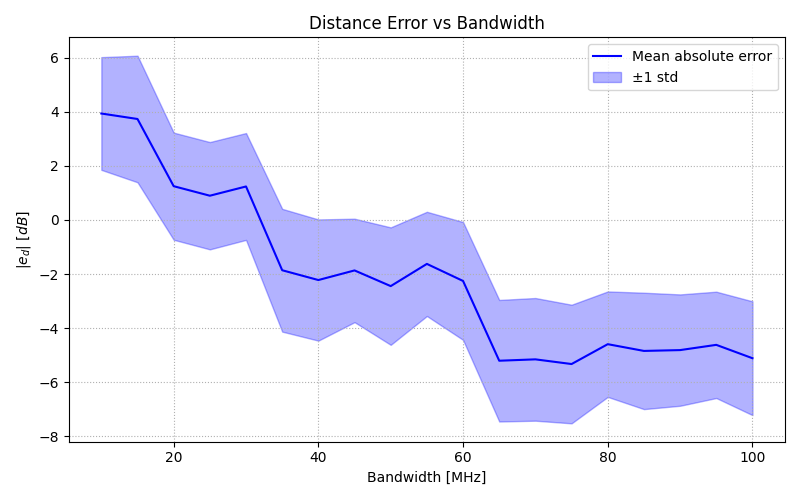
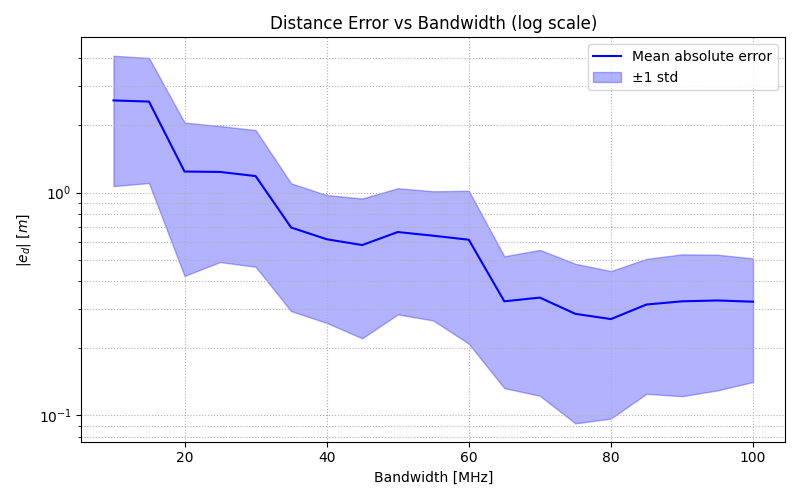
final adjustments

diff --git a/sym_evaluation.py b/sym_evaluation.py
@@ -98,7 +98,7 @@ for j, M in enumerate(Mset):
 
         echos += env.apply_target_echo(target, tx_signal, CP_LEN, FS, FC)
 
-        rx_signal = env.apply_awgn_nf(echos, TEMP, NF_DB, N * DELTA_F)
+        rx_signal = env.apply_awgn(echos, TEMP, NF_DB, N * DELTA_F)
 
 
         # Receiver ==================================================================================================================
@@ -146,29 +146,33 @@ import matplotlib.pyplot as plt
 mean = np.mean(abs_errors, axis=0)
 std = np.std(abs_errors, axis=0)
 
-mean_db = 10 * np.log10(mean)
-std_db = 10 * np.log10(mean + std) - mean_db
+# mean_db = 10 * np.log10(mean)
+# std_db = 10 * np.log10(mean + std) - mean_db
 
 plt.figure(figsize=(8, 5))
 
-plt.plot(Mset, mean_db, label='Mean absolute error', color='blue')
+plt.plot(Mset, mean, label='Mean absolute error', color='blue')
 
 plt.fill_between(
     Mset,
-    mean_db - std_db,
-    mean_db + std_db,
+    mean - std,
+    mean + std,
     color="blue",
     alpha=0.3,
     label="±1 std"
 )
 
+plt.yscale('log')
+
+plt.title("Speed Error vs Number of OFDM Symbols (log scale)")
 plt.xlabel("Number of OFDM Symbols")
-plt.ylabel(r"$|e_v|~[dB]$")
-plt.title("Speed Error vs Number of OFDM Symbols")
+plt.ylabel(r"$|e_v|~[m/s]$")
 plt.legend()
-plt.grid(linestyle=':')
+plt.grid(True, which="both", linestyle=':')
 
 plt.tight_layout()
 plt.savefig("results/SYM_evaluation.png")
 plt.show()        
 
+
+# %%

diff --git a/bw_evaluation.py b/bw_evaluation.py
@@ -96,7 +96,7 @@ for j, bw in enumerate(bandwidths):
 
         echos += env.apply_target_echo(target, tx_signal, CP_LEN, FS, FC)
 
-        rx_signal = env.apply_awgn_nf(echos, TEMP, NF_DB, N * DELTA_F)
+        rx_signal = env.apply_awgn(echos, TEMP, NF_DB, N * DELTA_F)
 
 
         # Receiver ==================================================================================================================
@@ -144,27 +144,29 @@ import matplotlib.pyplot as plt
 mean = np.mean(abs_errors, axis=0)
 std = np.std(abs_errors, axis=0)
 
-mean_db = 10 * np.log10(mean)
-std_db = 10 * np.log10(mean + std) - mean_db
+# mean_db = 10 * np.log10(mean)
+# std_db = 10 * np.log10(mean + std) - mean_db
 
 plt.figure(figsize=(8, 5))
 
-plt.plot(bandwidths, mean_db, label='Mean absolute error', color='blue')
+plt.plot(bandwidths, mean, label='Mean absolute error', color='blue')
 
 plt.fill_between(
     bandwidths,
-    mean_db - std_db,
-    mean_db + std_db,
+    mean - std,
+    mean + std,
     color="blue",
     alpha=0.3,
     label="±1 std"
 )
 
+plt.yscale('log')
+
 plt.xlabel("Bandwidth [MHz]")
-plt.ylabel(r"$|e_d|~[dB]$")
-plt.title("Distance Error vs Bandwidth")
+plt.ylabel(r"$|e_d|~[m]$")
+plt.title("Distance Error vs Bandwidth (log scale)")
 plt.legend()
-plt.grid(linestyle=':')
+plt.grid(True, which="both", linestyle=':')
 
 plt.tight_layout()
 plt.savefig("results/BW_evaluation.png")

diff --git a/src/environment.py b/src/environment.py
@@ -41,7 +41,7 @@ def apply_target_echo(target, signal, cp_len, fs, fc):
 
     return b * delayed * doppler * rand_phase
 
-def apply_awgn_snr(signal, snr_db):
+def apply_awgn_from_snr(signal, snr_db):
 
     """
     Change function: generate noise power as in equation 3.35
@@ -55,7 +55,7 @@ def apply_awgn_snr(signal, snr_db):
 
     return signal + noise
 
-def apply_awgn_nf(signal, temp, nf_db, bandwidth):
+def apply_awgn(signal, temp, nf_db, bandwidth):
 
     nf_lin = 10 ** (nf_db / 10)
     noise_power = KB * temp * nf_lin * bandwidth

diff --git a/simulation.py b/simulation.py
@@ -77,7 +77,7 @@ echos = np.zeros_like(tx_signal, dtype=complex)
 for target in targets:
     echos += env.apply_target_echo(target, tx_signal, CP_LEN, FS, FC)
 
-rx_signal = env.apply_awgn_nf(echos, TEMP, NF_DB, BANDWIDTH)
+rx_signal = env.apply_awgn(echos, TEMP, NF_DB, BANDWIDTH)
 
 
 # Receiver ==================================================================================================================
